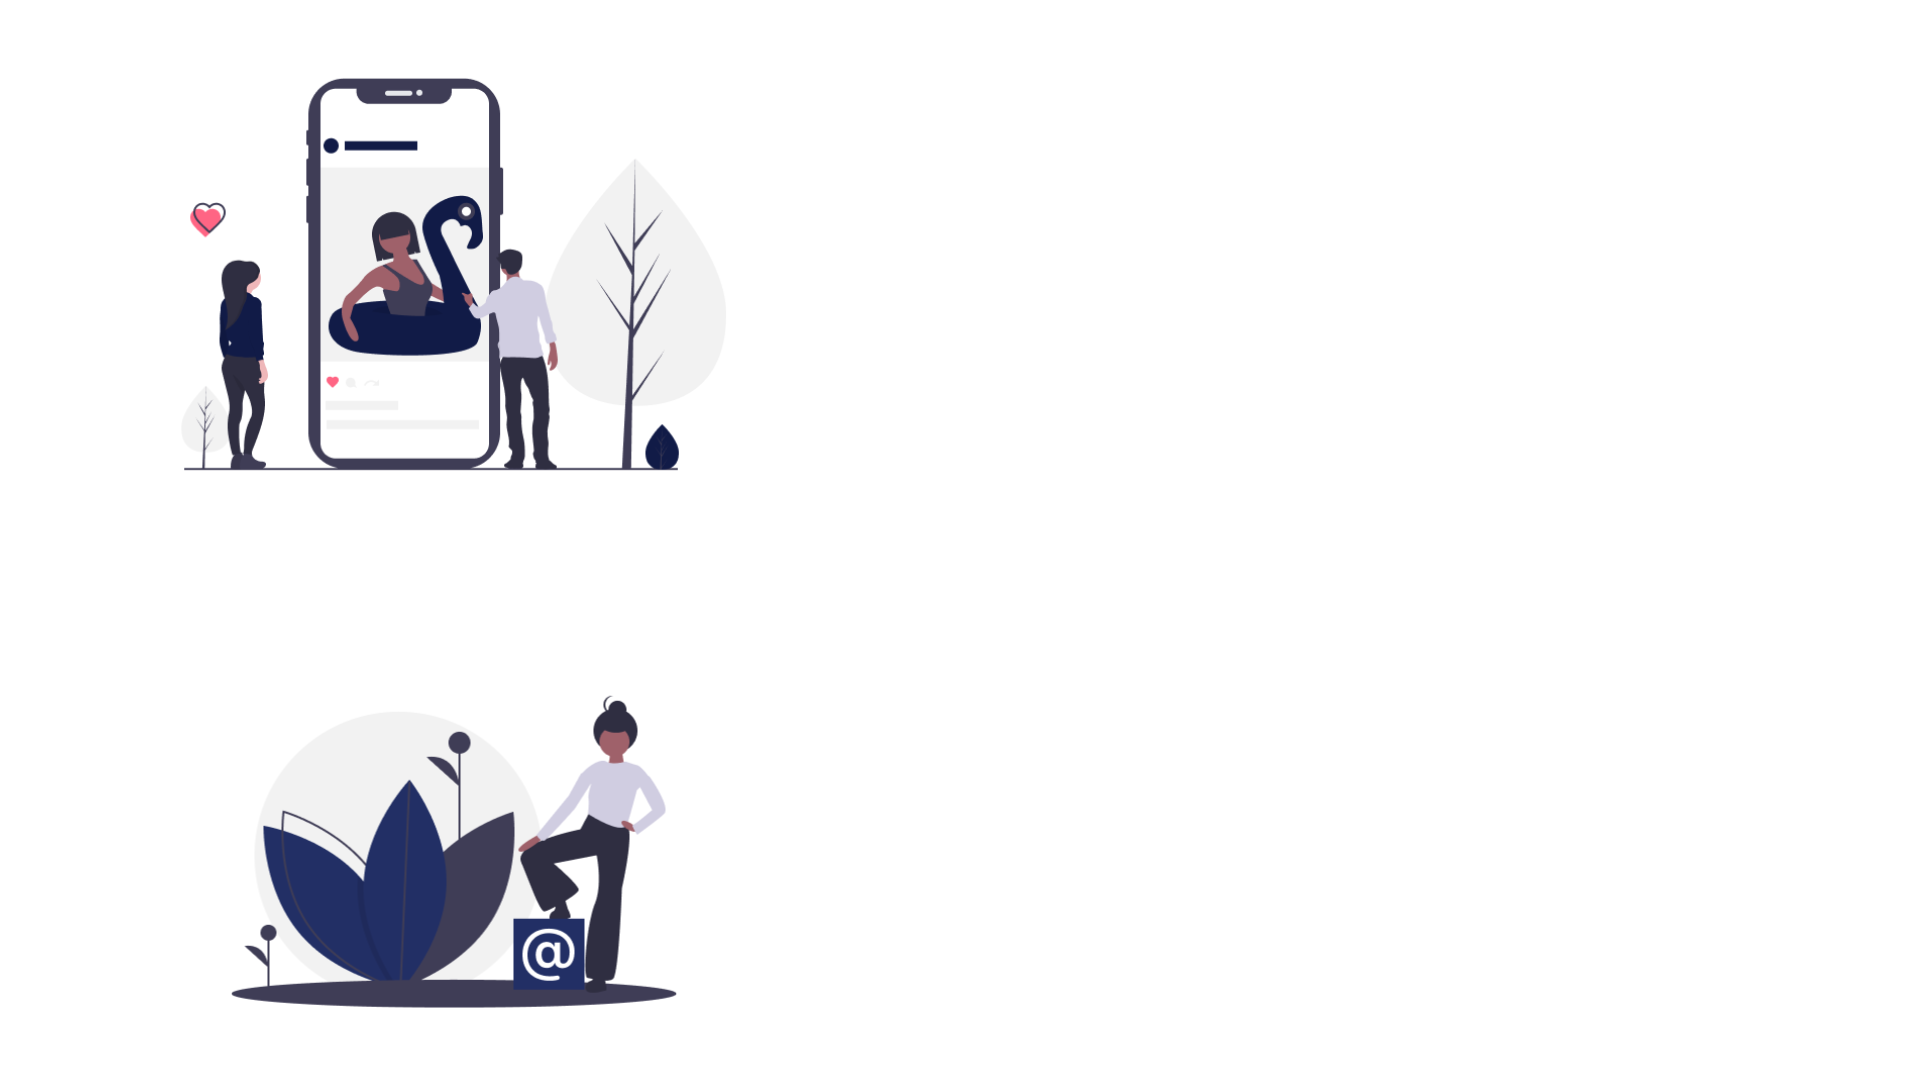
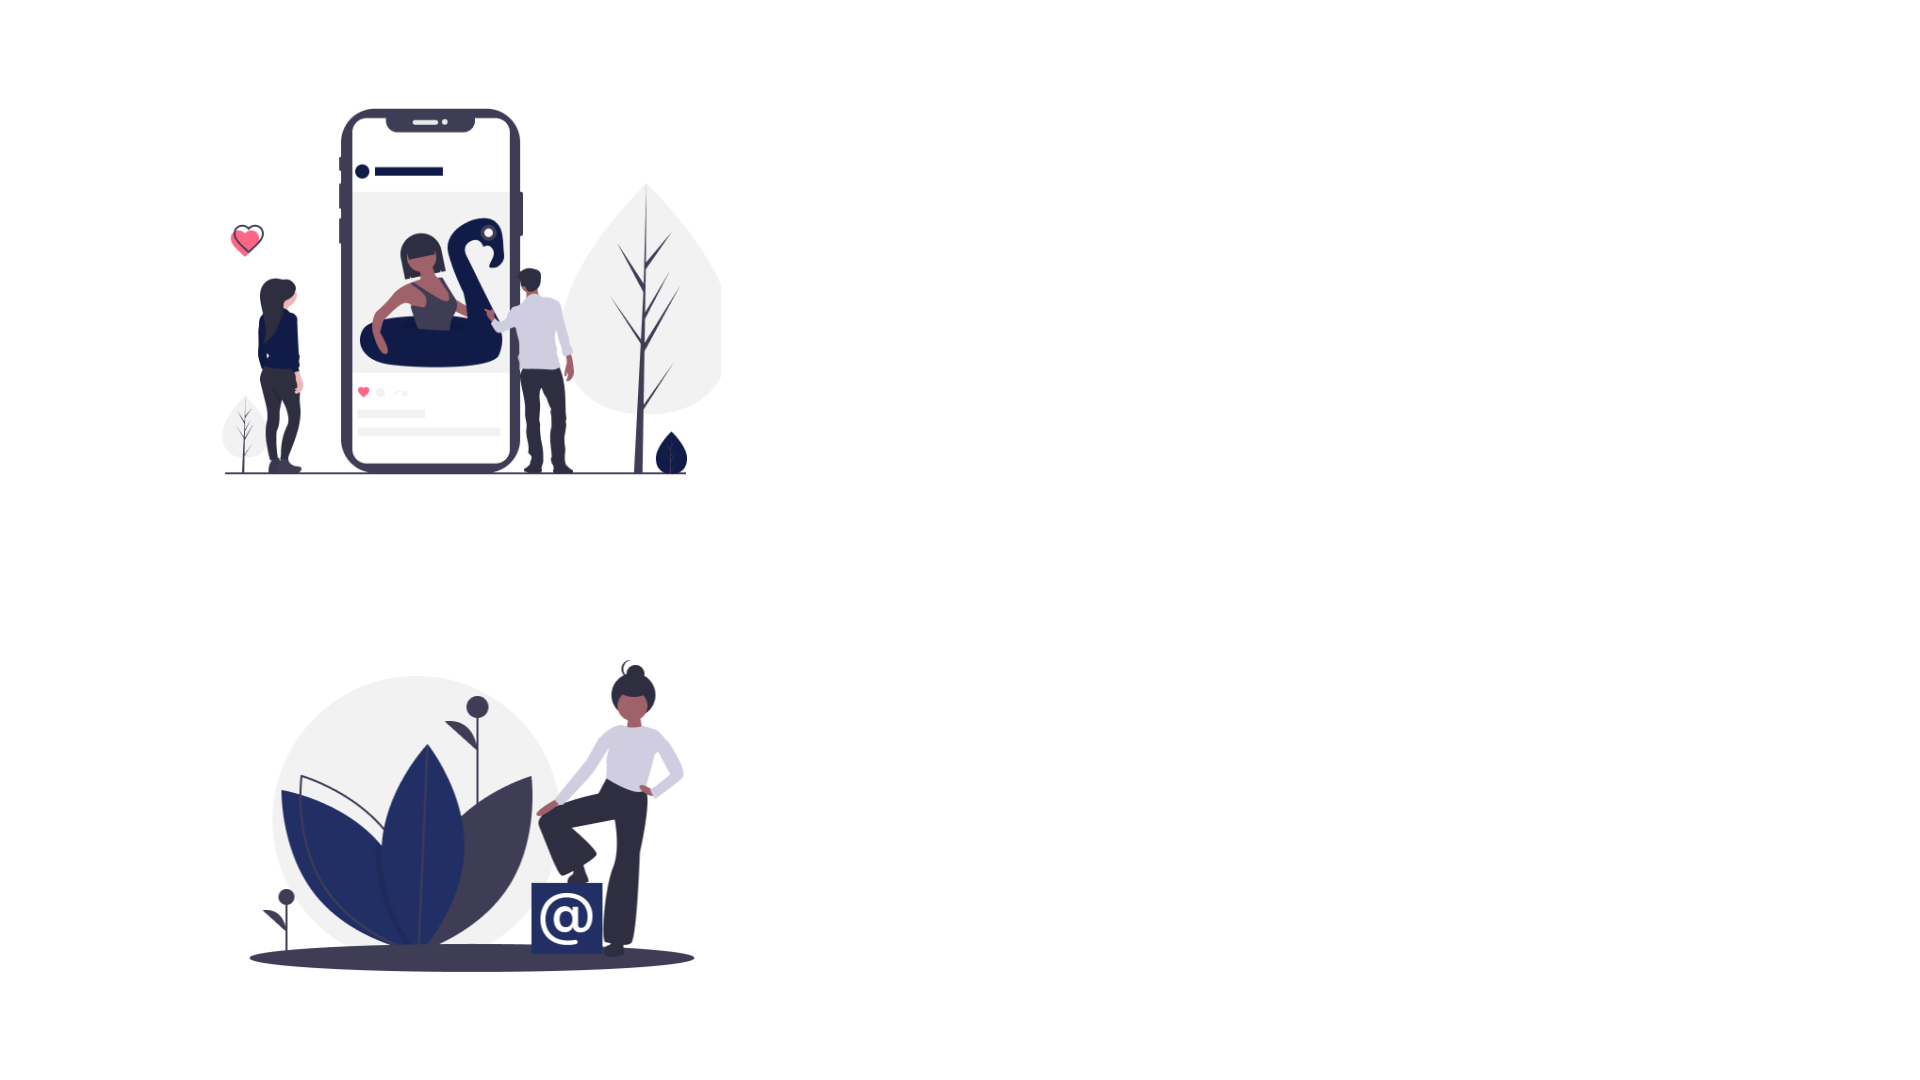
Add files via upload

Changed region(s): [[0.0938, 0.0611, 0.375, 0.4583], [0.125, 0.6111, 0.375, 0.9472]]

diff --git a/Zeb/resource/css/main.css b/Zeb/resource/css/main.css
@@ -141,7 +141,7 @@ header{
   }
   .about{
     min-height: 100vh;
-    background-image: url(../img/mobile.png);
+    background-image: url(../img/mobile3.png);
     background-position: right center;
     background-repeat: no-repeat;
     background-size: cover;
@@ -156,9 +156,9 @@ header{
 .about3{
     margin-top: 5%;
 }
-.section{
+.section3{
     min-height: 100vh;
-    background-image: url(../img/mobile2.png);
+    background-image: url(../img/mobile4.png);
     background-position: right center;
     background-repeat: no-repeat;
     background-size: cover;
